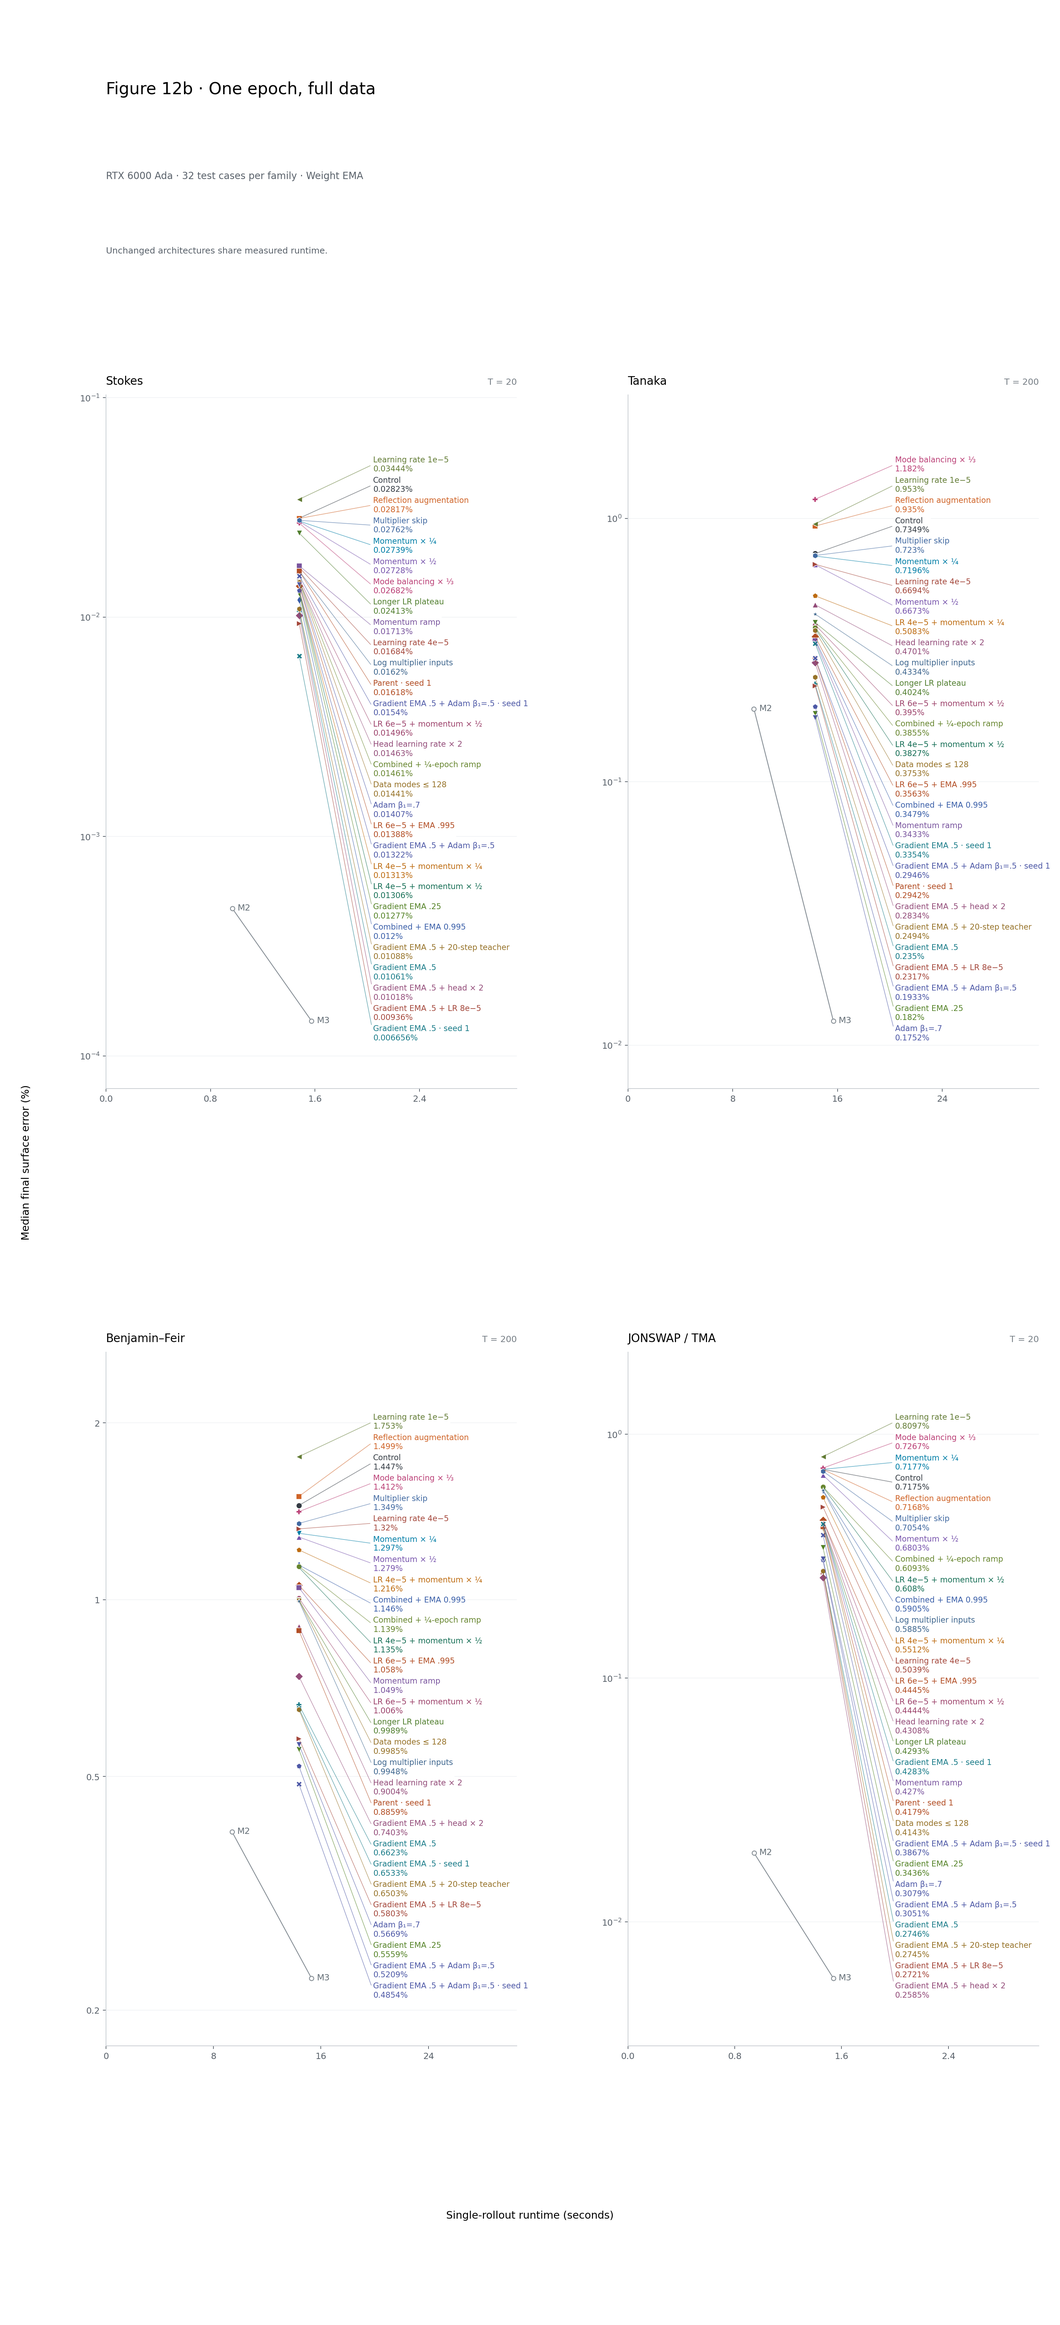
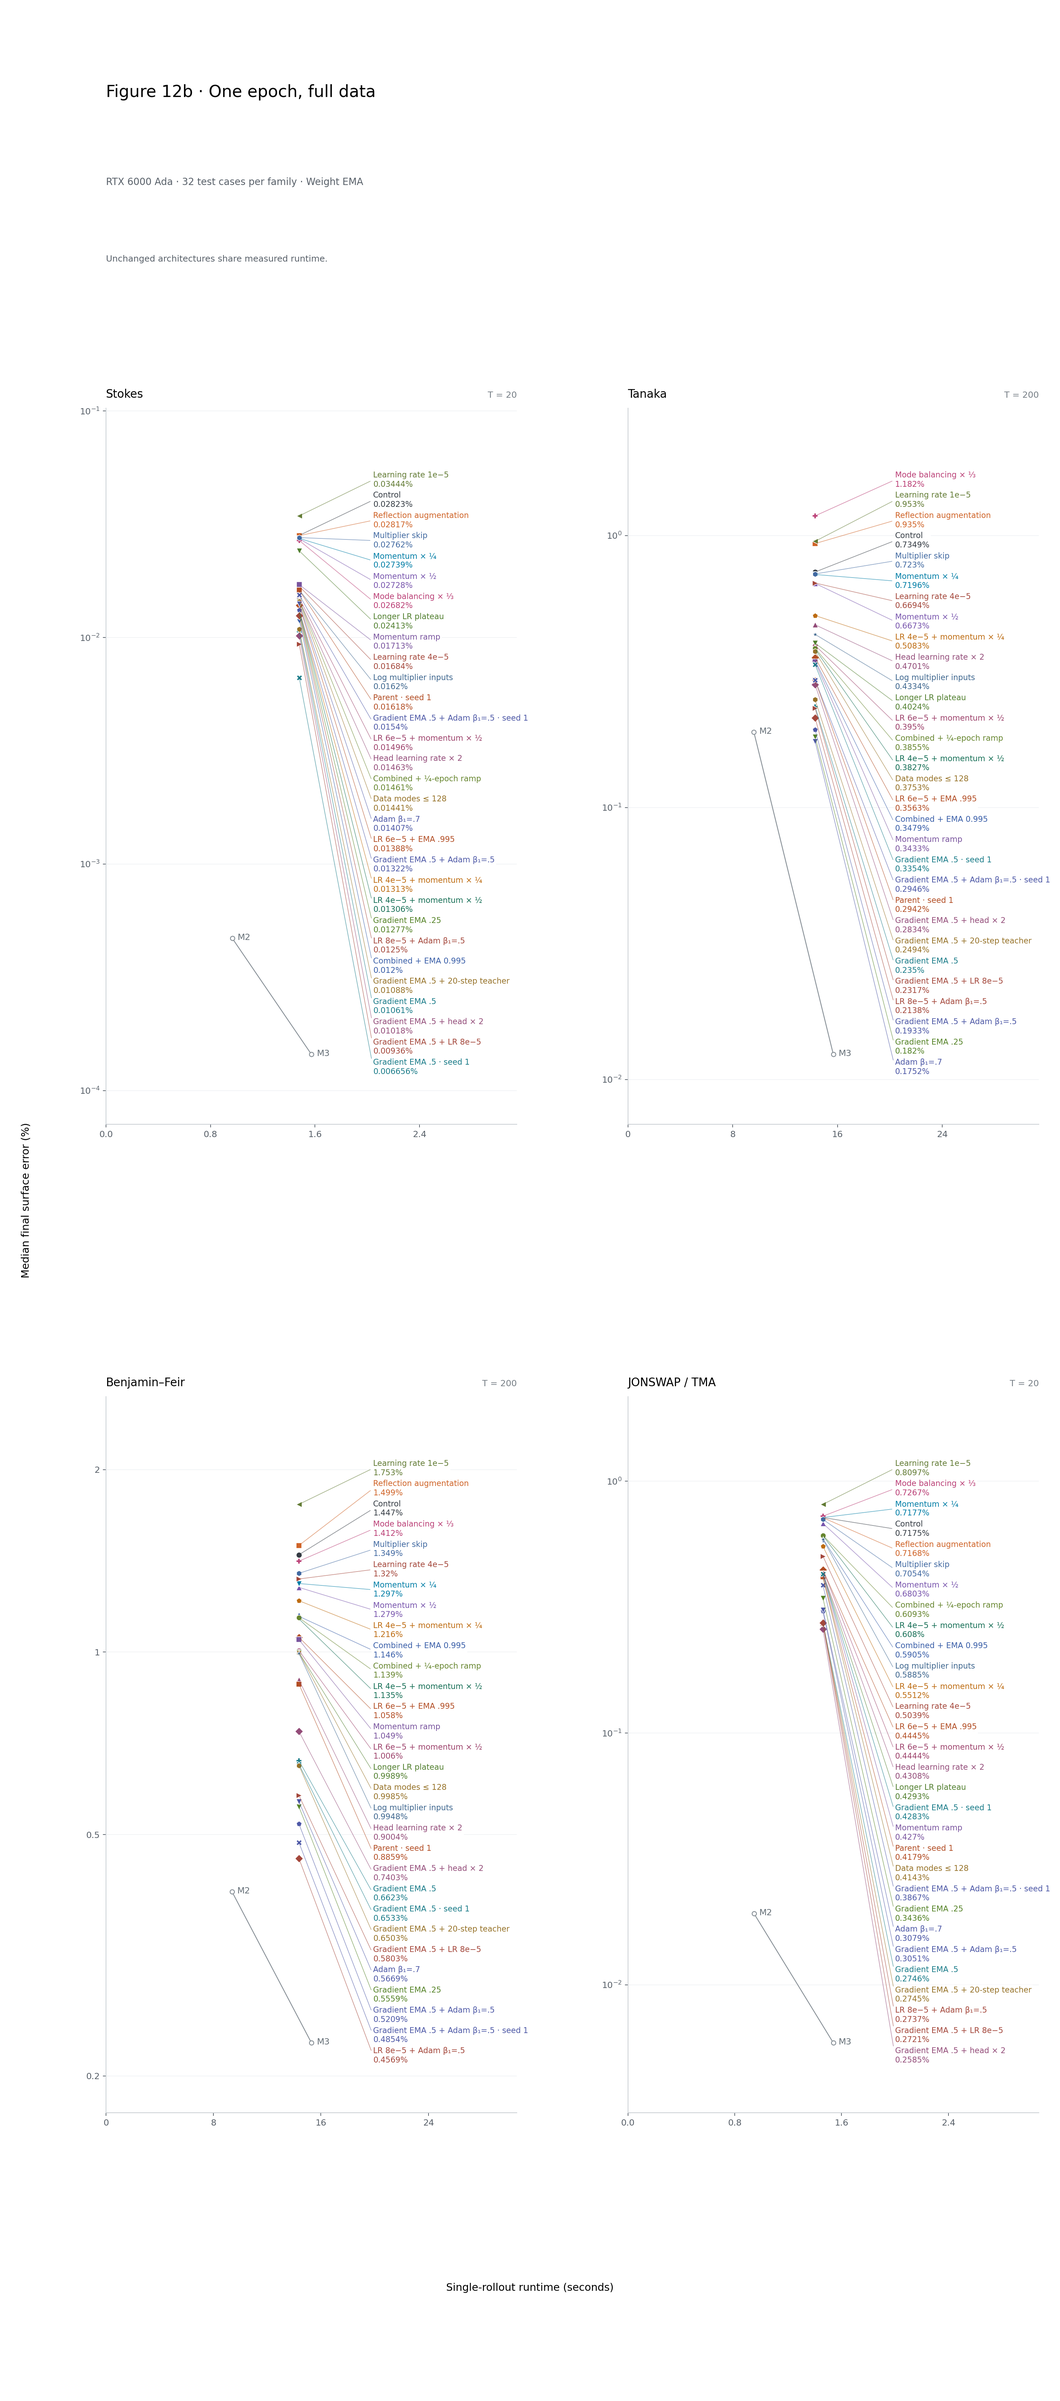
Record higher-LR Adam EMA result and update one-epoch comparison

diff --git a/experiments/experiments-2026-10-10.md b/experiments/experiments-2026-10-10.md
@@ -43,9 +43,10 @@
 | 2026-10-10 | 07:47 | Independent M6/neural evaluation batch sizes | Fresh M6 saved-state q needs smaller FFT batches to fit memory, while forcing the neural path to use the same small batch slows confirmation unnecessarily. | Added --truth_batch_size override only for uncached reference generation; default uses rollout_batch_size. New check uses truth8/model32 throughout, reusing completed Stokes/Tanaka references. No changes to models, selected ICs, trajectory horizons, solver, dtype or checkpoints. Parent Stokes neural evaluation69.8-to22.7s across all32 cases; these include compilation/transfers and are evaluation throughput, not new single-rollout latency. | All20 CPU evaluation tests pass, including all32 ordered cases and251 frames retained with independent truth/model chunks; CLI forwarding, cache behavior, Ruff/Pyright/scoped diff and source review pass. No extra metadata or helper. All three models use the same model32 execution; do not mix earlier parent8 output with candidate32 output. | Old evaluation stopped and replacement started07:46 on GPU0 only. First new family completed07:47 using cached truth. M6 Stokes/Tanaka reference generation had taken00:02/00:18 and was not repeated. | ACCEPT execution-only improvement; continue frozen accuracy comparison. No training-budget or numerical-method change and no update to Figure12b single-rollout timing axes. |
 | 2026-10-10 | 08:33 | Disjoint-cohort phase, amplitude and physical-energy confirmation | A lower surface error need not imply improved phase, profile amplitude, potential accuracy or physical conservation; test the frozen recipes on the new cases without further tuning. | GradientEMA.5/parent paired geometric ratios: terminal Fourier phase .7356 (89/128 wins), amplitude .7384 (98 wins), absolute M6 Hamiltonian drift .56958 (80 wins). LR8/grad05 ratios: phase .95008 (91 wins), amplitude .91471 (93 wins), M6 drift .95401 (79 wins). LR8 BF energy regression repeats: median/p95 drift% .027734/.162156-to.029931/.198618, maximum .28750-to.33150, paired ratio1.20633. LR8 Tanaka potential median% worsens .11778-to.16143 (paired ratio1.05585), despite lower p95 .87558-to.70781; phase median% .17115-to.20636, p95 1.8689-to1.3784. | Independent CPU audits verify exact Fourier squared-error decomposition, all saved eta/xi/q finite and identical reference arrays/IDs/times. Phase/amplitude magnitudes are percentages of reference eta norm, not percentages of total error. Physical H recomputed at each model's own initial/final states using FP64 M6/pad8/P128, normalized by its initial physical energy; not the stored learned-q Hamiltonian. These are terminal, not maximum-over-trajectory energy statistics. | CPU-only confirmation finished08:32–08:33 alongside/following final GPU0 evaluation. No checkpoint loading, new files, extra training or GPU jobs; diagnostics do not change model selection or cases. | Broad gradientEMA.5 improvement transfers to both phase and amplitude, not phase alone. LR8's smaller average gain also transfers, but worse BF energy and Tanaka median state/phase errors support retaining LR6 as the safer general baseline. Neither result closes the classical M3 accuracy gap in the original-cohort Figure12b. |
 | 2026-10-10 | 14:25 | Adam first-moment midpoint, beta1 .7 | Adam beta1 .5 produced the best seed0 checkpoint but its aggregate gain over .9 did not repeat on seed1; an intermediate coefficient may balance faster response with more robust smoothing. | Completed c27_phase1_lr6_momentum_half_ema995_grad05_adam07_full_20261010; only Adam beta1 .5-to-.7 changes from the seed0 champion. EMA median eta errors% [S,T,BF,J]=[.01407474,.17522429,.56686499,.30787356], p95=[.12403514,2.72641819,1.22534822,3.63006791]. Versus champion:46/128 wins, family geometric ratios1.132117/.956725/1.172117/1.060759, pooled1.077250; xi ratio1.099935. Trial pooled geometric eta error.15277054%. Versus supported Adam.9 seed0 sibling:85/128 wins, eta ratio.916421, xi.916026. Raw validation L2.0004960665. | Actual config differs from champion only in run_name and adam_b1. Fresh seed0/full-data one epoch with both EMAs and all original/generated losses unchanged. Root independently recomputed eta errors from saved fields; exact paired IDs/times/reference validity, all128 finite, zero >25% terminal eta errors. Maximum Tanaka/JON errors6.53958/8.52409%. Tanaka median improves but p95 worsens versus champion. | Local GPU0 training and128 EMA-only evaluations14:25–14:47,40% memory cap; tmux dno-frontier-optimizer-gpu0-20261010 and log outputs/frontier_optimizer_queue_20261010.log. GPU1/cloud untouched. No new inference timing; unchanged graph uses existing measured runtime in Figure12b. | COMPLETE, REJECT as champion replacement;7.7% worse pooled surface error and10.0% worse potential error despite a modest Tanaka median gain. Do not mistake improvement over Adam.9 for improvement over its actual Adam.5 base. |
-| 2026-10-10 | 14:25 | Higher peak LR with Adam beta1 .5 | Raising LR6e-5 to8e-5 improved the Adam.9 sibling on both original and disjoint cases; test whether that smaller improvement transfers to the stronger seed0 Adam.5 checkpoint recipe. | Launched c27_phase1_lr8_momentum_half_ema995_grad05_adam05_full_20261010 after the Adam.7 trial. Sole functional change from champion is LR6e-5-to8e-5, retaining Adam beta1 .5, gradientEMA .5, weightEMA .995, half momentum and full-loss detached10-step teacher. Fresh seed0/full-data one epoch, then128 EMA-only rollouts; no checkpoint initialization. | Saved config checked14:48 by root and independently14:49: only LR/run_name differ from champion, apart from newly explicit inactive defaults adam_b2=.999 and cs_whiten_surface_features=false; no surface transform. Not the completed LR8/Adam.9 arm. No completed accuracy result yet. | Queued14:25; started14:47 in the same sequential GPU0-only,40%-cap tmux session and log. GPU1/cloud untouched. | RUNNING; test interaction between the higher LR and lower Adam smoothing, with unchanged inference graph. No accuracy or completion claim yet. |
-| 2026-10-10 | 14:34 | Faster Adam second-moment adaptation, beta2 .99 | Reducing first-moment smoothing improved the best seed0 checkpoint; a shorter second-moment memory may also adapt the per-parameter step sizes faster within one epoch, without changing inference. | Queued c27_phase1_lr6_momentum_half_ema995_grad05_adam05_b2099_full_20261010. Only --adam_b2 .99 changes from the Adam beta1 .5 champion, whose beta2 is .999. Retain LR6e-5, gradientEMA .5, weightEMA .995, half momentum, full original/generated losses and detached10-step teacher. Fresh seed0/full train and validation splits, exactly one epoch, then128 weight-EMA-only rollouts. | Opt-in beta2 configuration and default-path tests pass within the24-test loss suite; Ruff/Pyright pass. Actual training config and rollout accuracy remain unmeasured because this arm has not started. No checkpoint initialization or inference-graph change. | Queued14:34 in waiting tmux dno-frontier-conditioning-gpu0-20261010; log outputs/frontier_conditioning_queue_20261010.log confirms it waits behind the live optimizer queue. Local GPU0 only,40% cap; GPU1/cloud untouched. No training or inference timing yet. | QUEUED; compare paired original-cohort errors and tails with the Adam.5 champion. Keep this independent of the subsequent whitening arm. |
+| 2026-10-10 | 14:25 | Higher peak LR with Adam beta1 .5 | Raising LR6e-5 to8e-5 improved the Adam.9 sibling on both original and disjoint cases; test whether that smaller improvement transfers to the stronger seed0 Adam.5 checkpoint recipe. | Completed c27_phase1_lr8_momentum_half_ema995_grad05_adam05_full_20261010; only peak LR6e-5-to8e-5 changes functionally from champion. EMA median eta errors% [S,T,BF,J]=[.01249952,.21378619,.45689941,.27369350], p95=[.12065374,3.52575546,1.06530083,3.58346868]. Against LR6/Adam.5:87/128 surface wins, family geometric ratios1.00936/.97197/.94131/.90136, pooled.955173; xi ratio.939525 with89 wins. Pooled geometric eta error.13545817%, best completed original-cohort checkpoint so far. Against older LR8/Adam.9:90/128 surface wins, eta ratio.858386, xi.835825. Raw validation L2.0004644240. | Saved config verified fresh seed0/full-data one epoch, both EMAs, all original/generated losses and10-step teacher unchanged; new inactive defaults beta2=.999/whitening=false. All128 finite/reference-valid, no trajectory nonfinites or >25% terminal eta errors; exact ordered IDs/times/depths match both comparisons. Worst Tanaka3686647 is5.63304%, JON3724308 is8.09759%. Tanaka median/p95 worsen versus LR6 (.19329/2.19892-to.21379/3.52576%), and paired Stokes worsens.94%, despite smaller Stokes median. | Queued14:25; GPU0 training/evaluation14:47–15:10 in dno-frontier-optimizer-gpu0-20261010 with40% cap; log outputs/frontier_optimizer_queue_20261010.log. GPU1/cloud untouched. No new inference timing; Figure12b uses existing architecture timing. | COMPLETE, MODEST/PROMISING;4.48% lower paired surface error and6.05% lower potential error than actual champion. New best observed checkpoint, not a replicated or uniform gain; retain Tanaka-tail tradeoff and do not conflate with LR8/Adam.9. |
+| 2026-10-10 | 14:34 | Faster Adam second-moment adaptation, beta2 .99 | Reducing first-moment smoothing improved the best seed0 checkpoint; a shorter second-moment memory may also adapt the per-parameter step sizes faster within one epoch, without changing inference. | Launched c27_phase1_lr6_momentum_half_ema995_grad05_adam05_b2099_full_20261010. Only --adam_b2 .99 changes from the LR6/Adam beta1 .5 champion, whose beta2 is .999. Retain LR6e-5, gradientEMA .5, weightEMA .995, half momentum, full original/generated losses and detached10-step teacher. Fresh seed0/full train and validation splits, exactly one epoch, then128 weight-EMA-only rollouts. | Opt-in beta2 configuration and default-path tests pass within the24-test loss suite; Ruff/Pyright pass. Saved config verified15:12: only beta2/run_name differ functionally, whitening=false; fresh seed0/full-data one epoch, both EMAs and rollout_epochs=[1]. No accuracy result or inference-graph change. | Queued14:34; started15:11 after the optimizer queue completed successfully. Tmux dno-frontier-conditioning-gpu0-20261010, log outputs/frontier_conditioning_queue_20261010.log. Local GPU0 only,40% cap; GPU1/cloud untouched. No completion or inference timing yet. | RUNNING; compare paired original-cohort errors and tails with the LR6/Adam.5 champion, not the new LR8 arm. Keep this independent of the subsequent whitening arm. |
 | 2026-10-10 | 14:34 | Fixed whitening of RMS-scaled surface inputs | RMS scaling equalizes channel magnitudes but leaves correlated powers and Fourier-context features; a fixed zero-preserving change of coordinates may improve optimization without extra learned parameters or inference FFTs. | Queued c27_phase1_lr6_momentum_half_ema995_grad05_adam05_whiten_full_20261010. Sole change from the champion is --cs_whiten_surface_features; Adam beta2 stays .999. Fit the uncentered second moment after existing RMS scaling on the existing65,536 training normalization rows, with eigenvalue floor .05*trace/d and no mean subtraction. Fold the fixed transform into the optimized first Dense kernel. Independent CPU diagnostic using256 training and256 validation rows per family reduced pooled condition number217.7-to3.34 on training and202.3-to3.77 on validation; improvements are not uniform within every family. | Twenty-six model invariants, two loader/cache tests,24 loss regressions, dataset-statistics tests and new packed/native gradient parity pass, as do Ruff/Pyright. Zero-preserving construction keeps the flat-surface behavior, parameter count and optimized FFT count unchanged. No validation rows fit the production transform. No training or rollout result yet. | Queued14:34 after beta2 .99 in the same waiting GPU0-only,40%-cap tmux/log. Fresh seed0/full-data one epoch with both EMAs and all losses unchanged, then128 EMA-only rollouts. No measured training or inference timing; GPU1/cloud untouched. | QUEUED; CPU conditioning motivates the trial but is not evidence of improved learned accuracy. Compare against the unwhitened champion after complete rollouts. |
 | 2026-10-10 | 14:55 | Mean-mode error audit of the champion | The exact DNO has mean-zero output; quantify whether a learned DC component wastes a significant part of the training error before adding a structural zero-frequency constraint. | CPU audit of Adam.5 champion weight-EMA epoch1, hard128 data,32 TRAIN and32 VAL rows per family. Share of the actual unweighted-rFFT squared-error numerator in DC, median/p95% [S,T,BF,J]: TRAIN [.449/5.244,.0815/12.458,.516/3.993,.00781/4.239], VAL [.375/4.611,.0342/1.150,.258/3.658,.0159/4.222]. Demeaning predictions improves pooled paired physical-L2 geometric mean only.50% TRAIN/.26% VAL. | RNG10011 selects first32 rows per family from65,536 drawn global indices. Targets and input xi essentially mean-free, relative DC maximum about8e-9. Squared spectral-error shares and physical-L2 improvements are distinct metrics; this is a256-row diagnostic, not full validation or rollouts. Shared multiplier M(0)=0 was not trained or tested. | Logged14:55; CPU-only, successful diagnostic under00:01 after a timed-out standard CPU restore was replaced by direct TensorStore restoration. No source edits, new files, training or GPU jobs. Current four-trial queue unchanged. | DEFER structural DC constraint; mathematically sound but current evidence suggests a small lever compared with the queued optimizer/conditioning trials. |
 | 2026-10-10 | 14:56 | Adam beta1 .7 phase and physical-energy check | A smaller Tanaka median could reflect a useful phase or conservation gain hidden by aggregate state error; check both before rejecting the midpoint. | On the128 paired original-cohort EMA rollouts, Adam.7/Adam.5 pooled geometric ratios are Fourier phase1.05994, amplitude1.05897 and absolute terminal M6 Hamiltonian drift1.02658. Family phase/amplitude/energy ratios [S,T,BF,J]=[1.110/1.167/1.097,.918/.919/.687,1.197/1.123/1.006,1.036/1.045/1.464]. Tanaka phase p95 worsens2.074-to2.632%, and physical-energy p95 .10949-to.12870%, despite lower paired family means. | CPU diagnostics on saved fields, same cases and reference trajectories. Phase/amplitude ratios are component magnitudes, not shares of total error. Physical Hamiltonian uses reference M6 at each predicted terminal state, not the learned-q Hamiltonian; absolute drift is relative to initial physical energy. No additional training or inferred causal attribution. | Logged14:56; CPU-only supplementary audit while LR8/Adam.5 trains. No source changes, model restoration, GPU work or new inference timing. | KEEP REJECTION; phase, amplitude and physical-energy aggregates do not reverse the worse state-error result. Tanaka-specific gains do not justify replacing the champion. |
 | 2026-10-10 | 15:04 | Native and optimized inference numerical contract | A fast inference implementation must be evaluated as actually deployed; identify whether the previous strict rollout-parity failure reflects a different learned function, filtering or numerical rounding before pairing native accuracy with optimized latency. | CPU comparison of the LR6/gradientEMA.9/weightEMA.995 parent at128 saved initial and terminal case states each,256 states total, using identical fixed depths. Median relative full-q differences [S,T,BF,J]=[1.061e-7,9.958e-8,1.047e-7,1.113e-7]; baseline-only differences[1.024e-7,9.752e-8,1.019e-7,1.087e-7]. Learned-correction differences divided by full-q norm[4.82e-11,6.48e-10,4.04e-10,2.29e-10], or1.35–2.03e-7 relative to the correction itself. Baseline/total-difference cosine.90–.92; generic/spectral RHS with the same predictor agrees around1e-12, except a tiny Stokes eta denominator giving7.7e-10. | Native baseline and final addition round to FP32; optimized analytic terms and total use complex128. Depth and normalization ordering were held consistent. CPU emulation replaces CUDA FFT kernels with JAX FFTs: it isolates controllable numerical differences but cannot attribute the exact CUDA discrepancy or accumulated trajectory error. No broad filter mismatch established. Previous strict GPU rollout parity remains failed, not waived. | Logged15:04; main CPU audit and follow-up each finish under00:01. No source edits, evaluation replacement, new files or GPU jobs; active training queues unchanged. | DEFER inference promotion. Preserve existing native evaluations; evaluate the fastest deployed predictor directly against M6 after the queue before pairing its own accuracy with its latency. CPU evidence favors baseline/output rounding over a large learned-function mismatch, not proof of trajectory equivalence. |
+| 2026-10-10 | 15:09 | Direct fast-predictor rollout accuracy and fresh latency | Native and optimized arithmetic do not meet the strict rollout-equivalence tolerance, so the deployment path needs its own M6 accuracy evaluation and timing before claiming the combined tradeoff. | Prepared standalone101-line scripts/eval_fast_rollouts.py for the actual fused Fourier/ept8/local-IFFT/spectral-state/packed-boundary predictor, leaving native evaluation and live training unchanged. Queued the Adam.5 champion's existing weight-EMA checkpoint on the fixed128 cases and251 saved frames with cached M6 references, writing eval_fast_weight_ema. Afterward, time_single_rollouts.py will measure full single trajectories for all four families with three warm repeats of the latest fast method, writing eval_fast_weight_ema/single_rollout_timings.json. | CPU-mocked128-case routing and precomputed-failure metrics tests, Ruff/Pyright, help and compilation checks pass. No actual GPU evaluation or timing result yet; direct M6 comparison does not waive the earlier native/fast parity failure. No retraining or changes to evaluation cases, horizons or physics. | Queued15:09 in tmux dno-fast-frontier-gpu0-20261010, waiting behind successful completion of the conditioning queue and an idle GPU0; log outputs/fast_frontier_verification_20261010.log. GPU0 only,40% memory cap; GPU1/cloud untouched. Post-training work expected to take a few minutes, not measured yet. | QUEUED; keep native and deployed accuracy separate until this direct check completes. No new accuracy, speed or promotion claim. |

diff --git a/EXPERIMENTS.md b/EXPERIMENTS.md
@@ -33,11 +33,11 @@ could not be recovered at all are in
 
 ## Dated logs
 
-92 files, 1354 rows.
+92 files, 1355 rows.
 
 | Date | Rows | File | Size |
 | --- | --- | --- | --- |
-| 2026-10-10 | 49 | [`experiments/experiments-2026-10-10.md`](experiments/experiments-2026-10-10.md) | 73 KB |
+| 2026-10-10 | 50 | [`experiments/experiments-2026-10-10.md`](experiments/experiments-2026-10-10.md) | 75 KB |
 | 2026-10-09 | 20 | [`experiments/experiments-2026-10-09.md`](experiments/experiments-2026-10-09.md) | 23 KB |
 | 2026-10-08 | 15 | [`experiments/experiments-2026-10-08.md`](experiments/experiments-2026-10-08.md) | 26 KB |
 | 2026-10-07 | 9 | [`experiments/experiments-2026-10-07.md`](experiments/experiments-2026-10-07.md) | 15 KB |
